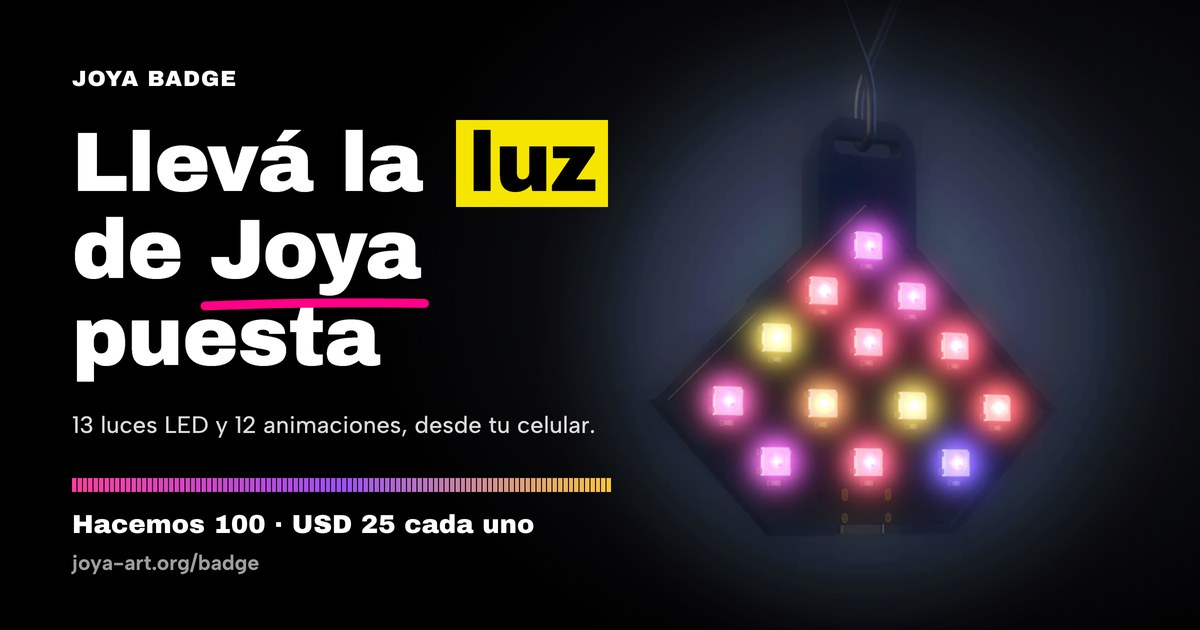
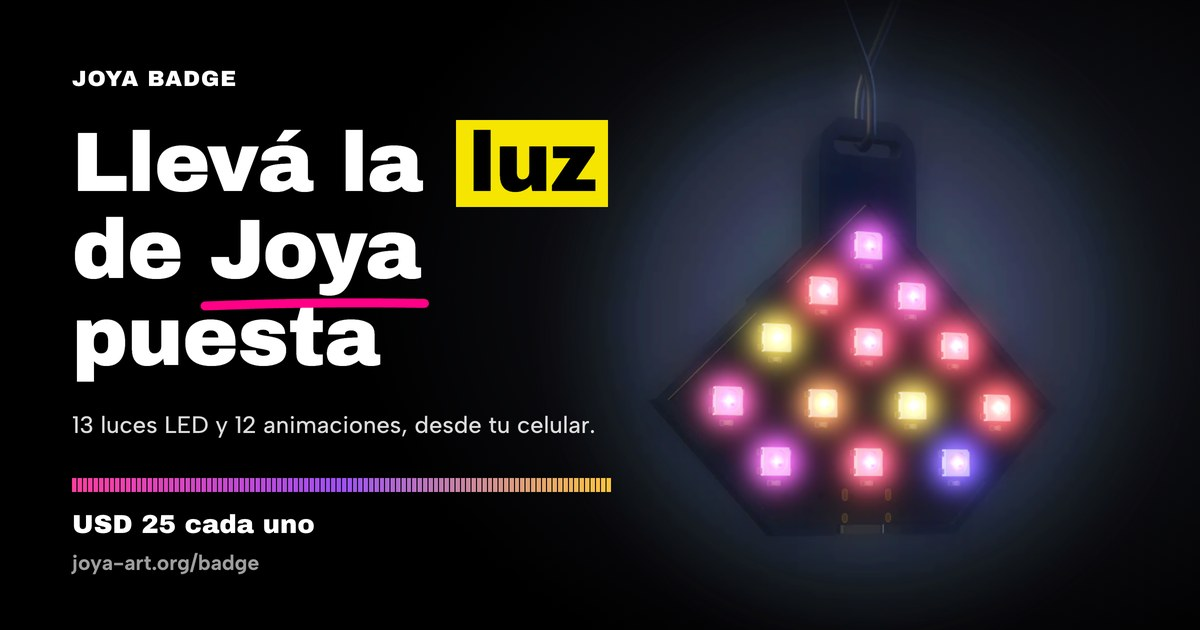
fix: /badge no longer says how many badges are made
Ale does not want the run of 100 in the launch posts, so the page and its share card
drop it too: the "5 de 100 badges pedidos" bar is gone, and the share image and its alt
text say "USD 25 cada uno" without "Hacemos 100". Orders still stop at badgesTotal
(100 minus the badges claimed); only the wording changed. The share image URL gets ?v=2
so link previews fetch the new picture.

Claude-Session: https://claude.ai/code/session_01HbL6EQ7AukU2xd4DejWV14

Changed region(s): [[0.0617, 0.8143, 0.4625, 0.8444]]

diff --git a/assets/js/badge.js b/assets/js/badge.js
@@ -30,9 +30,9 @@
        when the badges are ready: this is the web app address its script gives. Empty saves nothing; the
        order email still goes out. The script is in ~/Documents/joya-badge-fundraiser/sheet. */
     orderSheetUrl: 'https://script.google.com/macros/s/AKfycbw9Q4T-J5FWOVNwkjHuh7ZsE8HYMsJTvhRVw9Hwh5q7ExercZ0-09CVlUFmZTjp-p4a/exec',
-    badgesTotal: 100,                // the boards that were ordered: the most that can be asked for, and the end of the bar in the hero
+    badgesTotal: 100,                // the boards that were ordered: the most that can be asked for. The page never says the number
     /* Everyone who paid, newest first, added by hand once the payment shows up. It fills "Quienes lo hacen
-       posible" and the bar in the hero (the badges here are the ones claimed). name: only if the order email
+       posible", and its badges count against badgesTotal. name: only if the order email
        says "Mostrar mi nombre en la lista: sí", else ''; badges: how many;
        via: mercadopago, crypto, venmo or wise; date: 'YYYY-MM-DD'. For example:
        { name: 'Ana', badges: 2, via: 'mercadopago', date: '2026-11-21' } */
@@ -65,7 +65,6 @@
       'draft.banner': 'Borrador: los medios de pago todavía no están confirmados.',
       'hero.title': 'Llevá la *luz* de _Joya_\u00a0puesta',
       'hero.lead': 'Un badge con 13 luces LED y 12 animaciones que manejás desde el celular. Las placas ya se están fabricando. Con tu aporte cubrimos las placas, las baterías y las carcasas.',
-      'progress.text': '{claimed} de {total} badges pedidos',
       'hero.cta': 'Quiero el mío',
       'hero.caption': 'Modelo 3D del badge terminado. La carcasa todavía está en pruebas.',
       'alt.badge': 'Modelo 3D del badge terminado: la placa con sus 13 luces prendidas en una carcasa negra, con un clip arriba y un lanyard',
@@ -242,7 +241,6 @@
       'draft.banner': 'Draft: payment methods are not confirmed yet.',
       'hero.title': 'Wear the *light* of _Joya_',
       'hero.lead': 'A badge with 13 LED lights and 12 animations you control from your phone. The boards are already being made. Your contribution covers the boards, the batteries and the shells.',
-      'progress.text': '{claimed} of {total} badges claimed',
       'hero.cta': 'I want mine',
       'hero.caption': '3D model of the finished badge. The shell is still being tested.',
       'alt.badge': '3D model of the finished badge: the board with its 13 lights on in a black shell, with a clip on top and a lanyard',
@@ -478,7 +476,7 @@
     return !config.pricesConfirmed || !METHOD_IDS.some(function (id) { return methodReady(config, id); });
   }
 
-  /* How far the run is, for the bar in the hero: whole badges, never under zero or over the total. */
+  /* How far the run is, for the order limit: whole badges, never under zero or over the total. */
   function progress(config) {
     var total = wholeCount(config.badgesTotal);
     var claimed = (config.supporters || []).reduce(function (sum, person) { return sum + wholeCount(person.badges); }, 0);
@@ -872,12 +870,9 @@
     if (state.step === LAST_STEP) { renderSummary(); renderPanel(); }
   }
 
-  /* The badge count in the hero and "Quienes lo hacen posible": they change only with the settings and
-     the language, so they are drawn once per language, not on every keystroke. */
-  function renderRun() {
-    var run = progress(CONFIG);
-    all('[data-progress]').forEach(function (bar) { bar.max = run.total; bar.value = run.claimed; });
-    all('[data-progress-text]').forEach(function (node) { node.textContent = say('progress.text', run); });
+  /* "Quienes lo hacen posible": it changes only with the settings and the language, so it is drawn
+     once per language, not on every keystroke. */
+  function renderPeople() {
     var people = supporterRows(CONFIG, state.lang);
     all('[data-people]').forEach(function (list) {
       list.hidden = !people.length;
@@ -915,7 +910,7 @@
       button.setAttribute('aria-pressed', String(button.getAttribute('data-lang') === lang));
     });
     if (!sentBox.hidden) showSent();
-    renderRun();
+    renderPeople();
     render();
   }
 

diff --git a/badge.html b/badge.html
@@ -13,12 +13,12 @@
   <meta property="og:type" content="website">
   <meta property="og:description" content="El Joya Badge: 13 luces LED y 12 animaciones que manejás desde el celular, en una carcasa impresa en 3D con su lanyard. Elegí cuántos querés y hacé tu aporte.">
   <meta name="twitter:description" content="El Joya Badge: 13 luces LED y 12 animaciones que manejás desde el celular, en una carcasa impresa en 3D con su lanyard. Elegí cuántos querés y hacé tu aporte.">
-  <meta property="og:image" content="https://joya-art.org/assets/img/badge/og-badge-es.jpg">
+  <meta property="og:image" content="https://joya-art.org/assets/img/badge/og-badge-es.jpg?v=2">
   <meta property="og:image:width" content="1200">
   <meta property="og:image:height" content="630">
-  <meta property="og:image:alt" content="Joya Badge: Llevá la luz de Joya puesta. 13 luces LED y 12 animaciones, desde tu celular. Hacemos 100, USD 25 cada uno.">
+  <meta property="og:image:alt" content="Joya Badge: Llevá la luz de Joya puesta. 13 luces LED y 12 animaciones, desde tu celular. USD 25 cada uno.">
   <meta name="twitter:title" content="Badge — Joya">
-  <meta name="twitter:image" content="https://joya-art.org/assets/img/badge/og-badge-es.jpg">
+  <meta name="twitter:image" content="https://joya-art.org/assets/img/badge/og-badge-es.jpg?v=2">
   <meta name="twitter:url" content="https://joya-art.org/badge">
   <meta name="twitter:card" content="summary_large_image">
   <link rel="preload" href="/assets/fonts/archivo-black-latin.woff2" as="font" type="font/woff2" crossorigin>
@@ -60,10 +60,6 @@
         <p class="bdg-kicker t-small">Joya Badge</p>
         <div class="text bdg-hero__titlebox"><h1 class="bdg-hero__title" data-i18n-marked="hero.title">Llevá la <span class="hl" data-shape="marker" data-draw>luz</span> de <span class="hl" data-shape="underlineCurve" data-draw>Joya</span> puesta</h1></div>
         <p class="t-large" data-i18n="hero.lead">Un badge con 13 luces LED y 12 animaciones que manejás desde el celular. Las placas ya se están fabricando. Con tu aporte cubrimos las placas, las baterías y las carcasas.</p>
-        <div class="bdg-progress">
-          <p class="bdg-progress__text" id="bdg-progress-text" data-progress-text>5 de 100 badges pedidos</p>
-          <progress class="bdg-progress__bar" max="100" value="5" aria-labelledby="bdg-progress-text" data-progress></progress>
-        </div>
         <a class="bdg-btn" href="#pedido" data-i18n="hero.cta">Quiero el mío</a>
       </div>
       <figure class="bdg-hero__figure bdg-3d" data-viewer data-board="/assets/data/badge-board.json" data-case="/assets/data/badge-shell.json">

diff --git a/assets/css/badge.css b/assets/css/badge.css
@@ -28,13 +28,11 @@
   --bdg-num-size: clamp(1.8rem, 4vw, 3rem);         /* the big words in the facts row */
   --bdg-warn: hsl(45 100% 85%);                     /* draft banner, crypto warning: black text on it */
   --bdg-error: hsl(0 70% 38%);
-  /* The colours the badge's LEDs show in the renders. Used for glows and the progress bar only, never for text. */
+  /* The colours the badge's LEDs show in the renders. Used for glows only, never for text. */
   --bdg-led-pink: hsl(330 100% 62%);
   --bdg-led-violet: hsl(268 90% 64%);
   --bdg-led-amber: hsl(42 100% 62%);
   --bdg-led-warm: hsl(30 100% 88%);
-  --bdg-led-strip: linear-gradient(90deg, var(--bdg-led-pink), var(--bdg-led-violet) 50%, var(--bdg-led-amber));
-  --bdg-bar-h: 1rem;                                /* the progress bar */
   --bdg-hl-yellow: rgb(245 229 0);                  /* the hand drawn marks: same colours as on the home page */
   --bdg-hl-pink: rgb(255 0 134);
   --bdg-dot: 1.375rem;                           /* the round marker of a row you can pick */
@@ -154,28 +152,6 @@
   .bdg-hero__title .hl[data-shape="marker"][data-drawn] { transition: none; }
 }
 .bdg-hero__text .bdg-btn { margin-top: var(--bdg-space-2); }
-/* How many badges are spoken for, drawn as a strip of LEDs: one square per badge of the run.
-   Unclaimed squares are dim, claimed ones light up in the badge's colours. */
-.bdg-progress { margin: var(--bdg-space-3) 0 var(--bdg-space-1); }
-.bdg-progress__text { margin: 0 0 var(--bdg-space-1); font-family: var(--font-heading); }
-.bdg-progress__bar {
-  --bdg-unlit: color-mix(in srgb, var(--text) 16%, transparent);
-  display: block;
-  width: 100%;
-  height: var(--bdg-bar-h);
-  border: 0;
-  border-radius: 0;
-  background: var(--bdg-unlit);
-  color: var(--bdg-led-pink);
-  -webkit-appearance: none;
-  appearance: none;
-  /* gaps between the 100 squares */
-  -webkit-mask: repeating-linear-gradient(90deg, #000 0 calc(1% - 1px), transparent calc(1% - 1px) 1%);
-  mask: repeating-linear-gradient(90deg, #000 0 calc(1% - 1px), transparent calc(1% - 1px) 1%);
-}
-.bdg-progress__bar::-webkit-progress-bar { background: var(--bdg-unlit); }
-.bdg-progress__bar::-webkit-progress-value { background: var(--bdg-led-strip); }
-.bdg-progress__bar::-moz-progress-bar { background: var(--bdg-led-strip); }
 /* The 3D badge (js/badge/viewer.js). A still of it shows first and stays when there is no WebGL;
    the live canvas fades in over it once the first frame is drawn. */
 .bdg-hero__figure { margin: 0; }

diff --git a/assets/js/badge.test.js b/assets/js/badge.test.js
@@ -76,7 +76,6 @@ test('the badge count comes from the supporters: whole badges, never under zero 
   assert.equal(rules.maxBadges(run(30, 7)), 63);
   assert.equal(rules.maxBadges(run(140)), 0);
   assert.equal(rules.maxBadges({}), 0);
-  assert.equal(rules.t('es', 'progress.text', rules.progress(run(37))), '37 de 100 badges pedidos');
   assert.deepEqual(rules.progress(rules.CONFIG), { claimed: 5, total: 100 }, 'the page ships with the five prototype badges');
   assert.deepEqual(rules.supporterRows(rules.CONFIG, 'es'), [{ name: 'Anónimo', line: '5 badges', amount: 'USD 125' }]);
 });
@@ -290,9 +289,18 @@ test('badge.html matches the settings', () => {
   assert.ok(html.includes('data-qty-total>' + rules.t('es', 'qty.total', { total: one }) + '<'), 'first total differs from the settings');
   assert.ok(html.includes('data-qty-each>' + rules.t('es', 'qty.each', { unit: one }) + '<'), 'first price differs from the settings');
   assert.ok(html.includes('value="1" data-field="qty"'), 'the picker starts at one');
-  const run = rules.progress(rules.CONFIG);
-  assert.ok(html.includes('data-progress-text>' + rules.t('es', 'progress.text', run) + '<'), 'badge count differs from the settings');
-  assert.ok(html.includes('max="' + run.total + '" value="' + run.claimed + '"'), 'bar differs from the settings');
+});
+
+/* Orders stop at badgesTotal, but the page, its words and its share card never say how many there are. */
+test('the page never says how many badges are made', () => {
+  const words = [rules.WORDS.es, rules.WORDS.en].flatMap((lang) => Object.values(lang)).join('\n');
+  for (const said of [/\b100\b/, /hacemos/i, /\{total\} badges/, /badges (pedidos|claimed)/]) {
+    assert.ok(!said.test(words), 'the words say ' + said);
+    assert.ok(!said.test(html.replace(/<[^>]*>/g, ' ')), 'the page says ' + said);
+  }
+  assert.ok(!/100/.test(html.match(/og:image:alt" content="([^"]*)"/)[1]), 'the share card text says it');
+  assert.ok(!html.includes('data-progress'), 'the bar is back');
+  assert.equal(rules.maxBadges(rules.CONFIG), 95, 'orders still stop at the run');
 });
 
 test('what each badge pays for adds up to its price, and every sentence in both languages names that price', () => {
